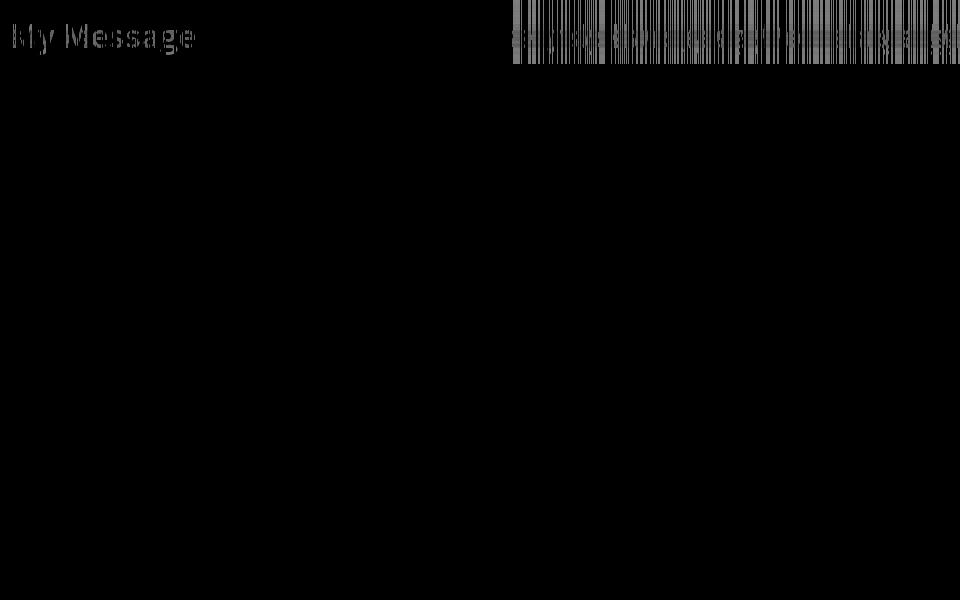
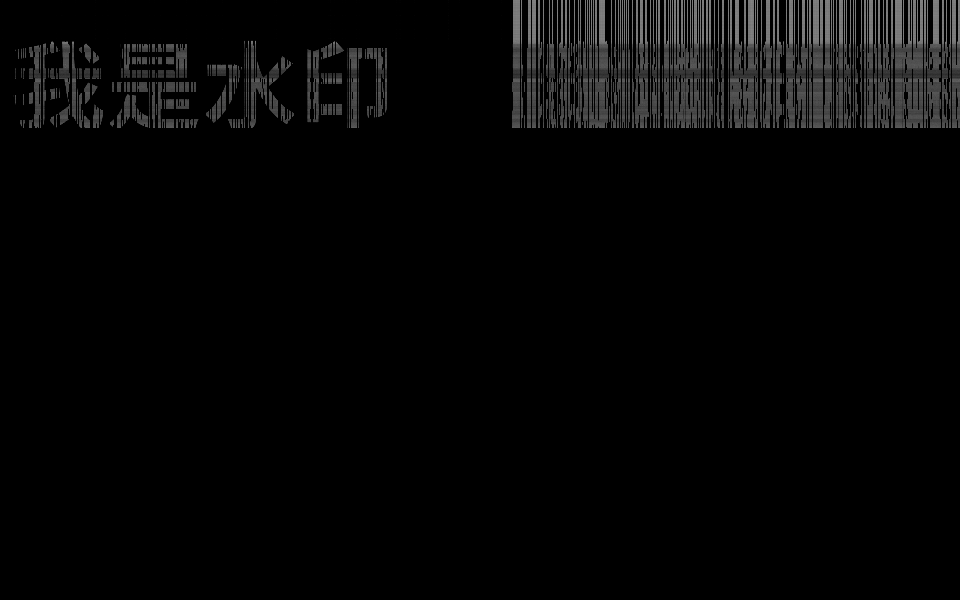
updated images

Changed region(s): [[0.5312, 0.03, 1.0, 0.21], [0.0, 0.03, 0.4062, 0.21]]

diff --git a/encode.py b/encode.py
@@ -34,13 +34,13 @@ def main():
     encode(img, wm, res, alpha)
 
 
-def generate_watermark_from_text( text, watermark_path, width=512, height=64 ):
+def generate_watermark_from_text( text, watermark_path, width=512, height=128 ):
     background_color = ( 255, 255, 255 )
     font_color = ( 0, 0, 0 )
     size = ( width, height )
     img = Image.new('RGB', size, color=background_color)
     d = ImageDraw.Draw(img)
-    fnt = ImageFont.truetype('./NotoSansCJKjp-Bold.otf', 32)
+    fnt = ImageFont.truetype('./NotoSansCJKjp-Bold.otf', 96)
     d.text((10,10), text, font=fnt, fill=font_color)
     img.save( watermark_path )
 

diff --git a/README.md b/README.md
@@ -12,10 +12,10 @@ Use --alpha to change the alpha (default 5.0).
 # Example
 ## encode:
 original image<br>
-![image](https://github.com/linyacool/blind-watermark/blob/master/ori.png)
+![image](./ori.png)
 
 watermark<br>
-![image](https://github.com/linyacool/blind-watermark/blob/master/watermark.png)
+![image](./watermark.png)
 
 
 ```shell
@@ -27,12 +27,12 @@ python encode.py --image ori.png --watermark 'My Message' --result res.png
 ```
 
 result<br>
-![image](https://github.com/linyacool/blind-watermark/blob/master/res.png)
+![image](./res.png)
 
 ## decode:
 ```shell
 python decode.py --original ori.png --image res.png --result extract.png
 ```
 watermark<br>
-![image](https://github.com/linyacool/blind-watermark/blob/master/extract.png)
+![image](./extract.png)
 
